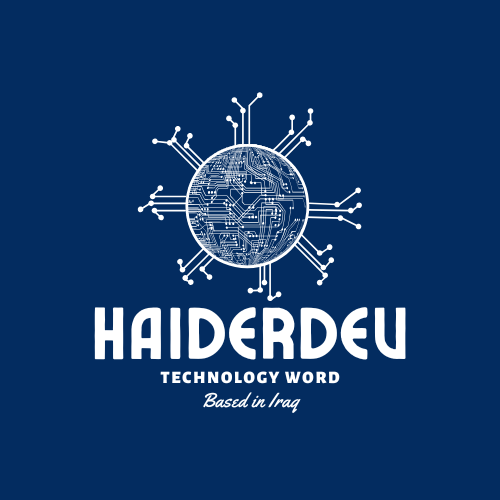
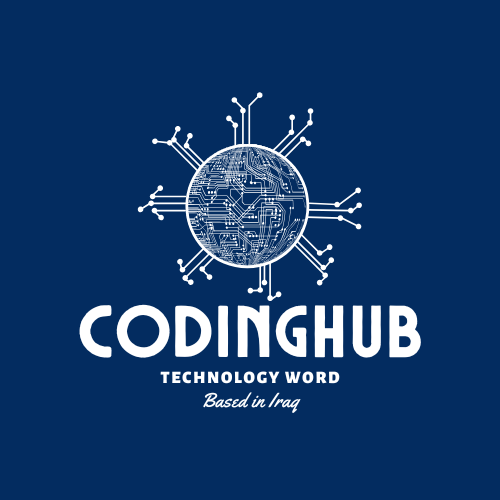
change HP img

Changed region(s): [[0.15, 0.6, 0.84, 0.72]]

diff --git a/src/utils/index.js b/src/utils/index.js
@@ -10,7 +10,7 @@ import tailwindIco from "../assets/imgs/tailwind-css-svgrepo-com.svg"
 import myimg from "../assets/imgs/haider.jpg"
 import crossIcon from "../assets/imgs/icons8-cross-mark-64.png";
 import  menu  from "../assets/imgs/icons8-menu.svg";
-import homePageIm from"../assets/imgs/web-img-removebg-preview.png";
+import homePageIm from"../assets/imgs/web-img-removebg-preview (1).png";
 import django from "../assets/imgs/icons8-django-24.png";
 
 

diff --git a/index.html b/index.html
@@ -3,6 +3,7 @@
 
 <head>
   <meta charset="UTF-8" />
+  <meta name="description" content="CodingHub - Your go-to platform for coding tutorials and resources." />
   <link rel="icon" type="image/svg+xml" href="/src/assets/imgs/web-img.png" />
   <meta name="viewport" content="width=device-width, initial-scale=1.0" />
   <title>CodingHub</title>
